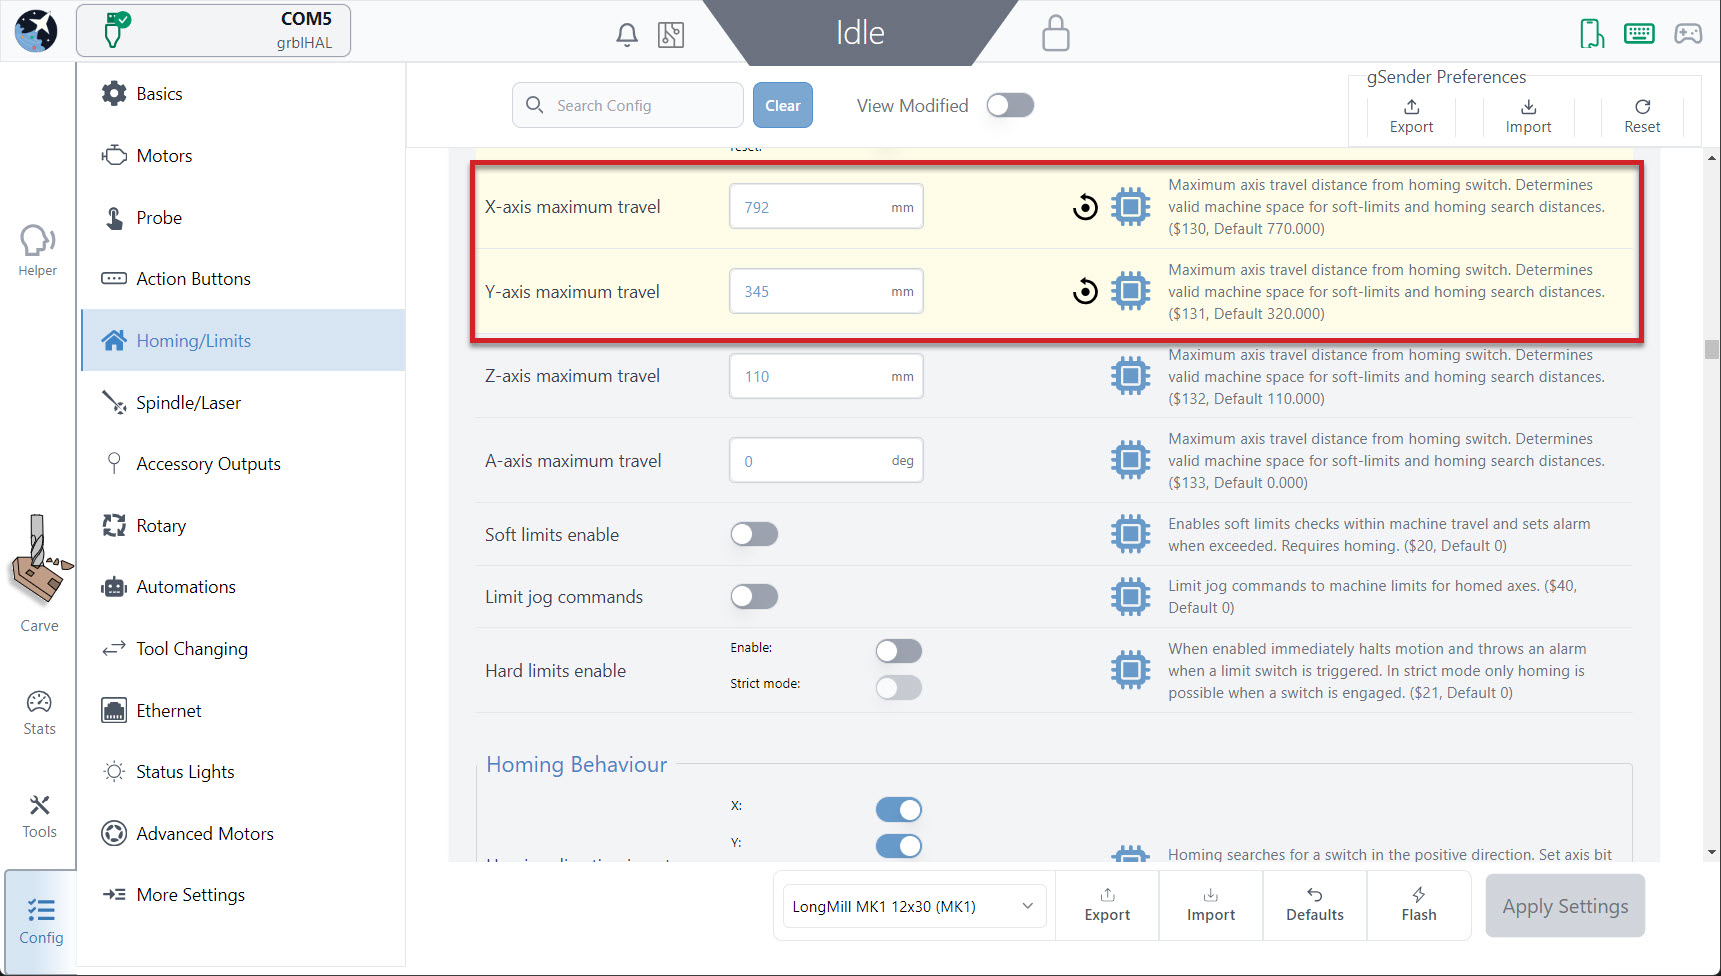
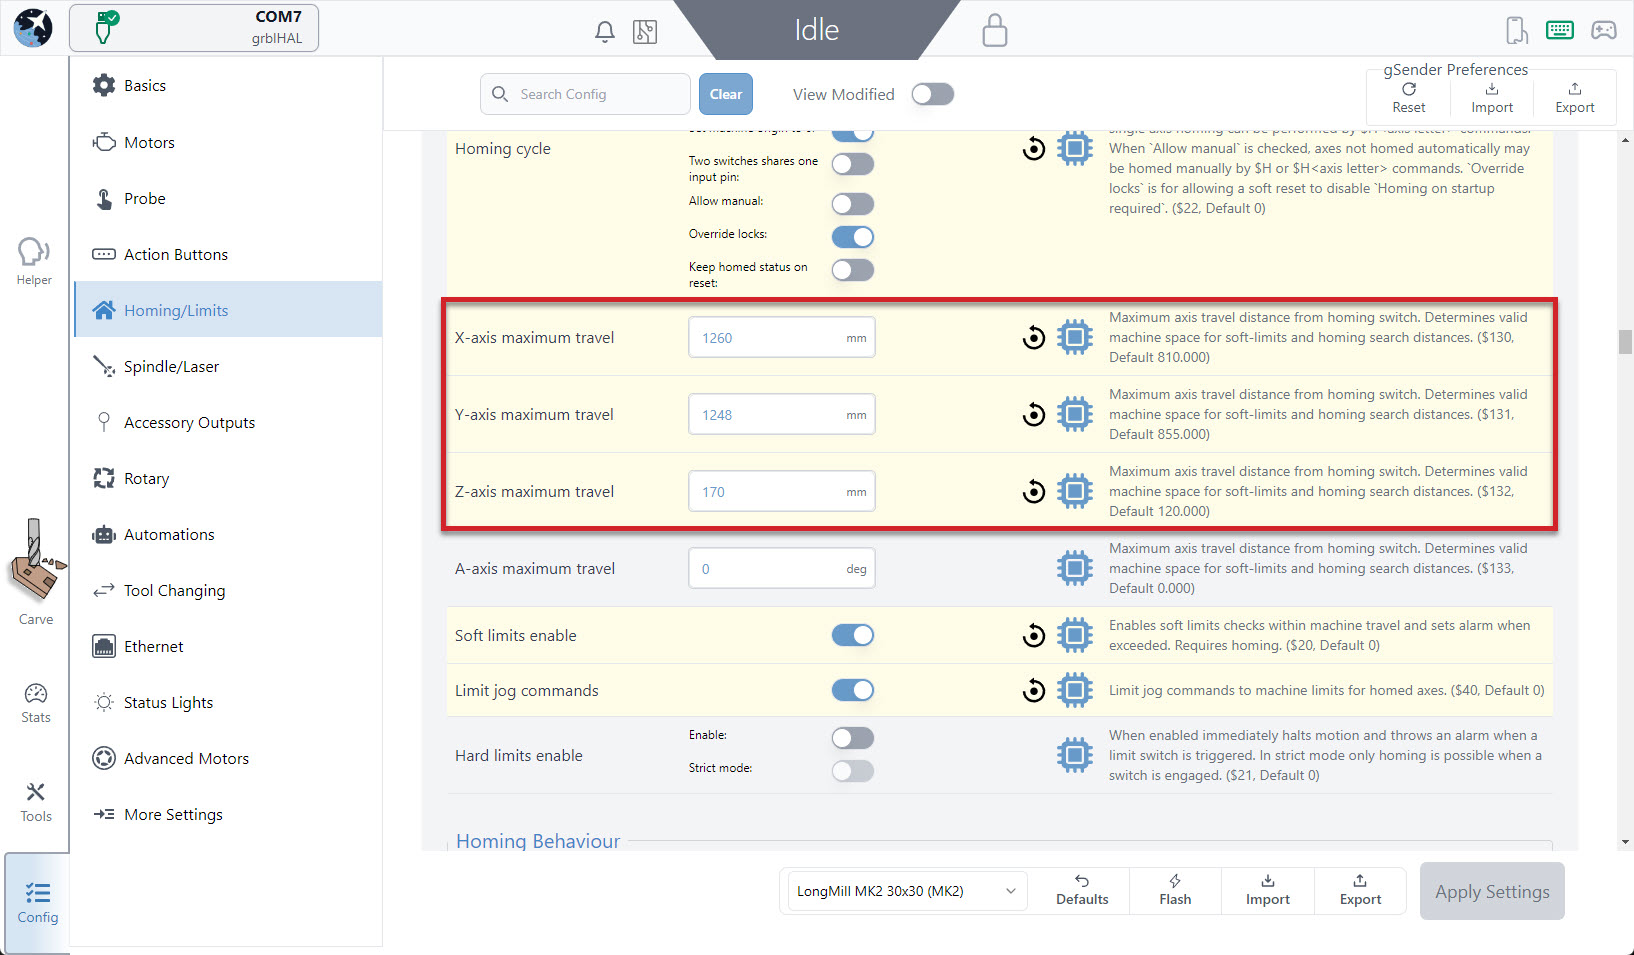
latest updates

diff --git a/superlongboard/slb-manual.md b/superlongboard/slb-manual.md
@@ -200,6 +200,31 @@ Keep in mind that setting up Ethernet is a bit more involved, and at the time of
 #### Ethernet on Windows
 
 1. To start, connect to your CNC over USB to note down the EEPROM values set for the IP address and Netmask (302 and 304). The defaults should be IP: `192.168.5.1` and Netmask: `255.255.255.0` with the IP mode set to `static`.
+
+[tabby title="Current gSender" Open="Yes"]
+
+![](/_images/_superlongboard/_manual/slb_ma_p13_IPMode-newu.jpg){.aligncenter .size-medium}
+
+1. Once confirmed, you can unplug your USB and connect the Ethernet cable directly from your PC to your board. If you look where you plugged the Ethernet cable into the SLBs port from the outside, you should see a green light on and a flickering yellow light.
+
+1. You’ll need to configure the PC’s Ethernet interface. Open network connections to get a list of Ethernet ports.
+![](/_images/_superlongboard/_manual/slb_ma_p14_TCP.jpg){.aligncenter .size-full}
+
+1. Right click your Ethernet port and go to Properties and then find the “Internet Protocol Version 4 (TCP/IPv4)” entry and open its properties.
+![](/_images/_superlongboard/_manual/slb_ma_p15_IP.jpg){.aligncenter .size-full .nar}
+
+1. Select the “Use the following IP address:” option and configure it as above. You want the subnet mask to be the same value from the EEPROM 'Netmask'. The IP address should have a different last digit on the same mask - so if the board is device 1 (192.168.5.1), you could call your PC device 5 (192.168.5.5). Click “OK” to save and close the options.
+
+1. Back in gSenders Config tab ➜ Ethernet section, make sure the IP Range matches the IP from the EEPROM.
+![](/_images/_superlongboard/_manual/slb_ma_p16_EEPROM-newu.jpg){.aligncenter .size-medium}
+
+1. Now click on Connect to CNC, choose the Ethernet Port option and you should see it connect successfully :)
+![](/_images/_superlongboard/_manual/slb_ma_p17_Connected-newu.jpg){.aligncenter .size-medium}
+
+1. If you have a problem connecting with Ethernet, go back over the setup steps. You can also reconnect over USB to double-check your SLB Ethernet settings.
+
+[tabby title="Classic gSender"]
+
 ![](/_images/_superlongboard/_manual/slb_ma_p13_IPMode.jpg){.aligncenter .size-full .nar}
 
 1. Once confirmed, you can unplug your USB and connect the Ethernet cable directly from your PC to your board. If you look where you plugged the Ethernet cable into the SLBs port from the outside, you should see a green light on and a flickering yellow light.
@@ -219,6 +244,8 @@ Keep in mind that setting up Ethernet is a bit more involved, and at the time of
 ![](/_images/_superlongboard/_manual/slb_ma_p17_Connected.jpg){.aligncenter .size-full}
 
 1. If you have a problem connecting with Ethernet, go back over the setup steps. You can also reconnect over USB to double-check your SLB Ethernet settings.
+
+[tabbyending]
 
 #### Ethernet on Mac
 
@@ -269,7 +296,15 @@ Useful in cases of:
 
 We’ve found that a minimum of 15% works for lead screw-driven CNCs. These hold current settings will also apply even if $37 is off when the machine is cutting but that axis isn’t moving. Note that these settings won’t work for an A-axis since that would typically be done using the DIP switches on the external motor driver.
 
+[tabby title="Current gSender" Open="Yes"]
+
+![](/_images/_superlongboard/_manual/slb_ma_p19_Steppers-newu.jpg){.aligncenter .size-medium }
+
+[tabby title="Classic gSender"]
+
 ![](/_images/_superlongboard/_manual/slb_ma_p19_Steppers.jpg){.aligncenter .size-full}
+
+[tabbyending]
 
 Note that since the Y1 and Y2 outputs share the same enable pin, they cannot be held independently even if they're assigned to different axes.
 
@@ -402,11 +437,23 @@ If you’d like to use the white JST connectors instead, the wiring pinouts are 
 
 If you’ve set up your own **NC sensors**, the first thing you’ll want to do is invert all the limit pins for $5 like shown below. **Don't do this if you have the inductive sensors from Sienci!**
 
+[tabby title="Current gSender" Open="Yes"]
+
+![](/_images/_superlongboard/_manual/slb_ma_p30_InvertLP-newu.jpg){.aligncenter .size-medium}
+
+On top of the typical settings that the original LongBoard has when it comes to homing like homing speed and direction, the SLB brings along some new options that you can configure. If you'd like to match the SLB behaviour to the typical LongMill/grbl setup, then we'd recommend you enable all the settings shown in the picture (homing on startup, set machine origin to 0, and override locks), otherwise learn about all the settings in the table below.
+
+![](/_images/_superlongboard/_manual/slb_ma_p31_HomingFirm-newu.jpg){.aligncenter .size-medium}
+
+[tabby title="Classic gSender"]
+
 ![](/_images/_superlongboard/_manual/slb_ma_p30_InvertLP.jpg){.aligncenter .size-full}
 
 On top of the typical settings that the original LongBoard has when it comes to homing like homing speed and direction, the SLB brings along some new options that you can configure. If you'd like to match the SLB behaviour to the typical LongMill/grbl setup, then we'd recommend you enable all the settings shown in the picture (homing on startup, set machine origin to 0, and override locks), otherwise learn about all the settings in the table below.
 
 ![](/_images/_superlongboard/_manual/slb_ma_p31_HomingFirm.jpg){.aligncenter .size-full}
+
+[tabbyending]
 
 [su_table responsive="yes" fixed="yes"]
 <table>
@@ -743,7 +790,15 @@ If your TLS is wired correctly, you should be able to press it and see the “PR
 
 With wiring done, check in your g-code sender if the TLS signal is set up correctly. This signal is shared with the touch plate, so activating either of them should be recognized. gSender has a status light to help see this in the 'Calibrate' tab and in other senders it should appear as 'P' for probe. If the light in the sender turns on when the TLS is pushed, and also turns on when the probe circuit is connected, then the hardware (SLB and wiring) is working and that means the $ values have been set up correctly. If the signal is on and only turns off when the TLS is pressed, then go to the $668 firmware setting and toggle it to the opposite of what it was set to.
 
+[Tabby title="Current gSender" Open="Yes"]
+
+![](/_images/_superlongboard/_manual/slb_ma_p44_tls-input-newu.jpg){.aligncenter .size-medium}
+
+[Tabby title="Classic gSender"]
+
 ![](/_images/_superlongboard/_manual/slb_ma_p44_tls-input.png){.aligncenter .size-full}
+
+[tabbyending]
 
 This flip is usually needed since the SLB defaults to expect NO inputs. Once this all seems to be working, see more documentation here on how to set up tool changing for your SLB (<a href="https://resources.sienci.com/view/gs-additional-features/#tool-changing" target="_blank" rel="noopener">gSender tool changing feature</a>) and make sure you select the 'Fixed tool sensor' option.
 

diff --git a/superlongboard/slb-upgrading.md b/superlongboard/slb-upgrading.md
@@ -367,6 +367,27 @@ Your limit switches are installed and plugged into your SLB, so let’s check th
 
 With your LaserBeam plugged into the SLB, let’s perform a quick test to make sure it fires up.
 
+[tabby title="Current gSender" Open="Yes"]
+
+1. Turn on your LaserBeam driver. <a href="https://resources.sienci.com/view/lb-turning-driver-on/">Go here</a> if you want to refresh your memory on how to do this. If your driver doesn’t turn on, don’t necessarily attribute this to an issue with the board right away. First double check all these conditions are met since they are sometimes easy to forget.
+1. In gSender, navigate to the Config tab ➜ Spindle/Laser tab in the Settings and toggle the spindle/laser controls on.
+
+   ![](/_images/_superlongboard/_upgrade/slb_up_p37_SpindleLaser-newu.jpg){.aligncenter .size-full}
+
+Back on the main screen in the bottom right corner, navigate to the Spindle/Laser tab and select “SLB_LASER” in the dropdown list. After this, flip the toggle at the top to ‘Laser Mode’.
+
+![](/_images/_superlongboard/_upgrade/slb_up_p38_SLBSpindle.jpg){.aligncenter .size-full}
+
+<p style="text-align: center;"><em><b>Note: Ensure that you are wearing your safety glasses!</b></em></p>
+
+Ensure your power is set to 1% and your ‘Test Duration’ to one second. Now when you hit the ‘Laser Test’ button your diode should momentarily emit a faint beam. This means that the SLB is controlling your laser successfully!
+
+![](/_images/_superlongboard/_upgrade/slb_up_p39_LaserTest-newu.jpg){.aligncenter .size-full}
+
+If the laser testing didn’t go as planned, check your wiring and that you’ve turned on your driver correctly. If you go back through the steps still with no success, you can always read more about laser setup on our more advanced <a href="https://resources.sienci.com/view/slb-manual/#laser">SLB Manual page</a>.
+
+[tabby title="Classic gSender"]
+
 1. Turn on your LaserBeam driver. <a href="https://resources.sienci.com/view/lb-turning-driver-on/">Go here</a> if you want to refresh your memory on how to do this. If your driver doesn’t turn on, don’t necessarily attribute this to an issue with the board right away. First double check all these conditions are met since they are sometimes easy to forget.
 1. In gSender, navigate to the Spindle/Laser tab in the Settings and toggle it on.
 
@@ -383,6 +404,8 @@ Ensure your power is set to 1% and your ‘Test Duration’ to one second. Now w
 ![](/_images/_superlongboard/_upgrade/slb_up_p39_LaserTest.jpg){.aligncenter .size-full}
 
 If the laser testing didn’t go as planned, check your wiring and that you’ve turned on your driver correctly. If you go back through the steps still with no success, you can always read more about laser setup on our more advanced <a href="https://resources.sienci.com/view/slb-manual/#laser">SLB Manual page</a>.
+
+[tabbyending]
 
 ### Rotary Test
 
@@ -479,11 +502,20 @@ There will be some new behaviours to expect from your SLB compared to the way yo
 - For now, the SLB will continue working the best with any typical ‘grbl’ post processor setup. If you already had a working grbl setup then you won't need to change anything.
 - Whenever you press the **E-stop, expect an ‘Alarm 10’** to appear. This shows that the board saw your E-stop press and will shut down the motors and all other accessories. Once you untwist the E-stop (the light will come back on), you’ll be able to unlock the machine and continue what you were doing. The E-stop will cancel any currently active job, so if you want to resume you’ll want to re-probe or re-home and then use ‘Start from Line’ to resume the job back where you left off.
 
+[tabby title="Current gSender" Open="Yes"]
+
+![](/_images/_superlongboard/_upgrade/slb_up_p48_Unlock-newu.jpg){.aligncenter .size-medium}
+
+[tabby title="Classic gSender"]
+
   ![](/_images/_superlongboard/_upgrade/slb_up_p48_Unlock.jpg){.aligncenter .size-medium}
+
+[tabbyending]
+
 - The yellow ‘processing’ lines in the gSender visualizer might extend out further when you’re running a job, this is just because the SLB can store more future movements in its memory than other boards
-- **Swapping between the Spindle/Laser is a bit more involved**, the SLB Manual page goes into it a bit more on it. Because of this, we’d recommend that you set up your SLB for whatever Spindle/Laser output you’d tend to use as your default, so that you can just power on your machine and not have to worry about many other steps after that.
-- There will always show the ‘Unlock’ button in gSender. This is because there might be some times where if your SLB gets stuck, you can use the ‘Unlock’ button to help recover it.
-- This should never change after your first setup, but you’ll need to make sure that from now on you always connect to gSender or other g-code senders with ‘grblHAL’ being the selected firmware
+- **Swapping between the Spindle/Laser is a bit more involved**, the SLB Manual page goes into it a bit more on it. Because of this, we’d recommend that you set up your SLB for whatever Spindle/Laser output you’d tend to use as your default, so that you can just power on your machine and not have to worry about many other steps after that
+- There will always show the ‘Unlock’ button in gSender. This is because there might be some times where if your SLB gets stuck, you can use the ‘Unlock’ button to help recover it
+- This should never change after your first setup, but you’ll need to make sure that from now on you always connect to gSender or other g-code senders with ‘grblHAL’ being the selected firmware. The most current version of gSender detects your firmware and connects automatically, so no need for an extra step.
 
   ![](/_images/_superlongboard/_upgrade/slb_up_p49_grblHAL.png){.aligncenter .size-medium}
 - Some settings in gSender aren’t used anymore since the SLB stores them itself. This includes the Spindle/Laser settings for spindle min/max speed, laser min/max power, and laser axes offset, as well as all the Rotary settings except for the Rotary toggle.

diff --git a/superlongboard/slb-firmware-flashing.md b/superlongboard/slb-firmware-flashing.md
@@ -53,6 +53,34 @@ You can choose to either use gSender or the STM Cube Programmer software to upda
 
 ### gSender Flashing
 
+[tabby title="Current gSender" Open"Yes"]
+
+1. Be connected to your SLB over USB with the power on, ensure the firmware selected is **grblHAL** not **grbl**
+
+   ![](/_images/_superlongboard/_firmware/slb_fi_p1_Connected-newu.jpg){.aligncenter .size-medium}
+1. Go to the **Config tab** and click the **Flash** button
+
+   ![](/_images/_superlongboard/_firmware/slb_fi_p2_FlashgrblHAL-newu.jpg){.aligncenter .size-medium}
+1. Ensure the COM port is correct (matches the board you’re connected to), and that you have selected grblHAL as your controller type
+1. Click ‘Choose File’ to select the “.hex” firmware file you plan to update to, in the picture below it’s the 5.0.7 firmware
+1. Click ‘Yes’ to begin the flashing process. If it stops before 100% and you see an error for:
+   - "LIBUSB_ERROR_NOT_SUPPORTED", you'll need to [update your Windows driver](#windows-driver-update)
+   - "Unable to find valid device", you might have [installed your Windows drivers incorrectly](#bad-driver-install)
+   - "LIBUSB_ERROR_ACCESS", your Ubuntu device might be having a [USB rights issue](#ubuntu-driver-update)
+
+   ![](/_images/_superlongboard/_firmware/slb_fi_p3_Choose.jpg){.aligncenter .size-medium}
+1. Once you see the loading bar at 100%, flashing is complete. Exit out of the firmware window and switch off the board with the power switch at the back then turn it back on again.
+
+   ![](/_images/_superlongboard/_firmware/slb_fi_p4_Flashing.jpg){.aligncenter .size-medium}
+1. Once it’s back on, you should be able to re-connect to it in gSender. Go to the ‘Console’ tab and send the command `$rst=$` to revert your machine back to the default firmware settings (you shouldn't get any errors when you send this command).
+
+   ![](/_images/_superlongboard/_firmware/slb_fi_p5_ConsoleRST.jpg){.aligncenter .size-medium}
+1. Power the board off and then back on one more time after sending the command. Finally, if you had any specific settings from your previous setup that you want to check or reload, connect back to gSender and change those firmware values back. Remember to hit “Apply New Settings” when you’re doing this and ensure that the settings are being re-added correctly, if they don’t seem to be sticking then make sure that your SLB is in an ‘Idle’ state, cleared of all Alarms, and try turning the SLB off and back on again.
+
+Congrats are in order, well done! If you go back to the ‘Console’ you should now see that sending the `$i` command will give you new text that matches up with the update you’ve made.
+
+[tabby title="Classic gSender"]
+
 1. Be connected to your SLB over USB with the power on, ensure the firmware selected is 'grblHAL' not 'grbl'
 
    ![](/_images/_superlongboard/_firmware/slb_fi_p1_Connected.png){.aligncenter .size-medium}

diff --git a/superlongboard/slb-troubleshooting.md b/superlongboard/slb-troubleshooting.md
@@ -33,7 +33,17 @@ The SLB is set up to be automatically compatible with most LongMills by default.
 
 - **Firmware settings look funny, don't have descriptions, changing settings causes unexpected changes to happen:** if you're using gSender, check that you've selected 'grblHAL' as the firmware when you connect to your machine, not 'grbl'.
 - **Pressing to ‘Zero’ axes isn’t working**: ensure "work coordinate offset" is enabled for $10, or that $10 = 511
-![](/_images/_superlongboard/slb_tb_10-setting.jpg){.aligncenter .size-full}
+
+[tabby title="Current gSender" Open="Yes"]
+
+![](/_images/_superlongboard/slb_tb_10-setting-newu.jpg){.aligncenter .size-medium}
+
+[tabby title="Classic gSender"]
+
+![](/_images/_superlongboard/slb_tb_10-setting.jpg){.aligncenter .size-medium}
+
+[tabbyending]
+
 - **Probing isn’t passing continuity check**: ensure the yellow ‘PRB’ light is coming on, if isn't then check your touch plate wiring, and if it is then ensure “pin state” is enabled for $10 or that $10 = 511
 - **Dual Y-axes drifting out of sync**: for grblHAL there is a new solution to this which is $37. This is better than the old $1=255 solution because $37 can hold individual motors rather than holding all of them. If you’d like to turn it on to keep your dual Y-axes in sync then turn it on for ‘Y’ or set $37=2.
 - **CNC losing location during goto, outlining, probing, or running a job**: all of these situations use high-speed ‘G0’ movements where the motors might not be able to keep up if your machine is not mechanically sound. First, confirm this is the problem by manually jogging your machine using the jog arrows and slowly increasing the jogging ‘Speed’ value until you notice any of the axes moving intermittently. Since your machine should be able to handle these speeds, it’s likely there’s some components that you’ve assembled too loose or too tight or misaligned. Check if you can turn your lead screws by hand, if your belts or v-wheels are too tight, if you have a coupler that’s too loose. These will all be the same components you should be looking at during regular machine maintenance. If you still can’t manage to get your machine to run at full speed the other option is to consider lowering the SLBs maximum speed with settings 110, 111, and 112 and maximum accelerations with settings 120, 121, and 122 until the problem goes away.

diff --git a/superlongboard/slb-other-controllers.md b/superlongboard/slb-other-controllers.md
@@ -53,9 +53,17 @@ To help communicate where things are on the board, we use the terms shown below:
 
 Before diving into rewiring, we’d first suggest you note down any attributes that are unique about your setup. This is so that once you switch over to the SLB you'll be able to create the same setup with the same settings.
 
-If you use gSender, you can do this by connecting to your CNC and using the Firmware Tool to find sections that you recall setting up or changing; things like max travel, speed, etc. It won't be disastrous if you forget to record any of these settings, since your old controller should still work so you can always go back and double-check it's settings.
+If you use gSender, you can do this by connecting to your CNC and using the Config tab (Current gSender) or Firmware Tool (Classic gSender) to find sections that you recall setting up or changing; things like max travel, speed, etc. It won't be disastrous if you forget to record any of these settings, since your old controller should still work so you can always go back and double-check it's settings.
+
+[tabby title="Current gSender" Open="Yes"]
+
+![](/_images/_superlongboard/_upgrade/slb_up_p3_FirmMaxTravel-newu.jpg){.aligncenter .size-medium}
+
+[tabby title="Classic gSender"]
 
 ![](/_images/_superlongboard/_upgrade/slb_up_p3_FirmMaxTravel.jpg){.aligncenter .size-medium}
+
+[tabbyending]
 
 ## Wiring xPRO V5
 
